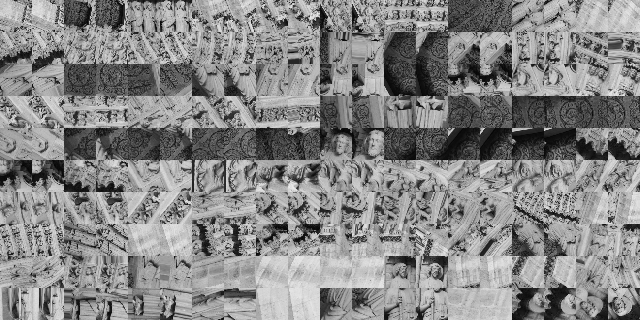
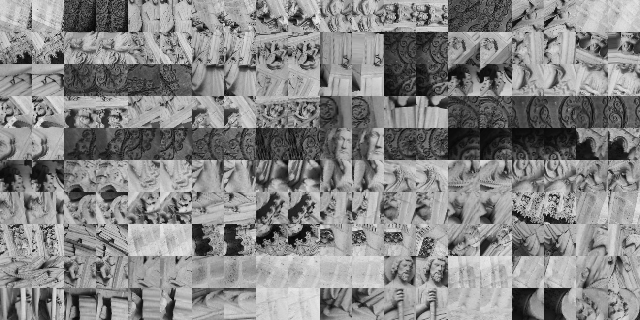
correctify the patch scale

diff --git a/utils/patch_extractor.py b/utils/patch_extractor.py
@@ -34,11 +34,11 @@ class PatchExtractor(object):
         for idx in range(kpt_n):
             # construct affine transformation matrix.
             affine_mat = np.zeros((3, 2), dtype=np.float32)
-            affine_mat[0, 0] = kpts[idx, 0] * W
-            affine_mat[1, 0] = kpts[idx, 1] * W
+            affine_mat[0, 0] = kpts[idx, 0] * W / 2
+            affine_mat[1, 0] = kpts[idx, 1] * W / 2
             affine_mat[2, 0] = kpts[idx, 2] * W / 2 + W / 2
-            affine_mat[0, 1] = kpts[idx, 3] * H
-            affine_mat[1, 1] = kpts[idx, 4] * H
+            affine_mat[0, 1] = kpts[idx, 3] * H / 2
+            affine_mat[1, 1] = kpts[idx, 4] * H / 2
             affine_mat[2, 1] = kpts[idx, 5] * H / 2 + H / 2
             # get input grid.
             input_grid = np.matmul(self.output_grid, affine_mat)
